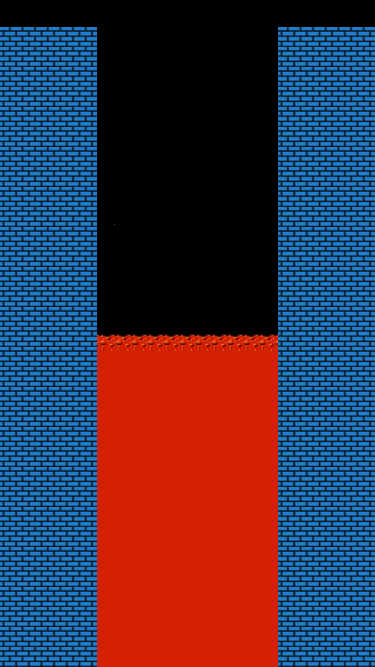
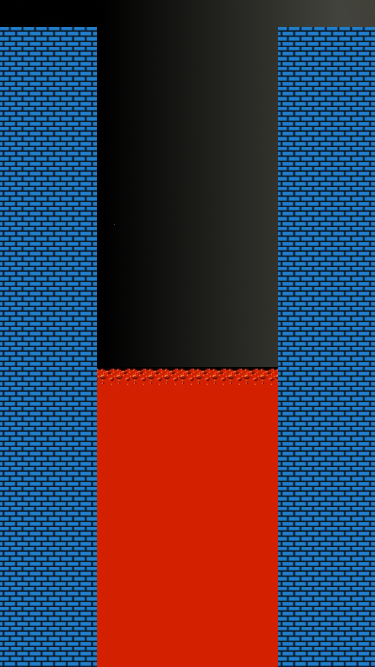
replace mobile bg form img

Changed region(s): [[0.2347, 0.0, 1.0, 0.5697]]

diff --git a/assets/css/style.css b/assets/css/style.css
@@ -474,7 +474,7 @@ footer {
     }
 
     .formbg {
-        background-image: url("../images/bg-tablet.jpg");
+        background-image: url("../images/mario-bg-tablet.jpg");
         background-repeat: no-repeat;
         background-size: cover;
         min-height: 35rem;
